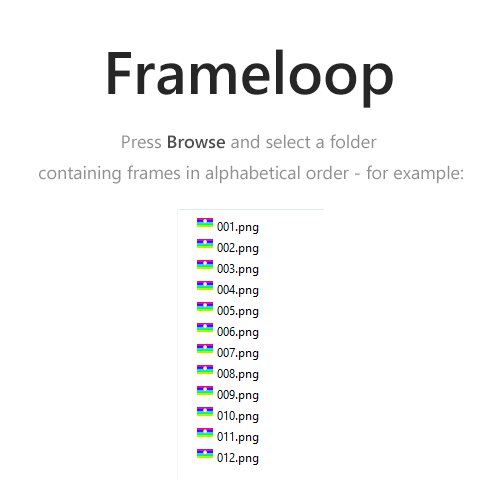
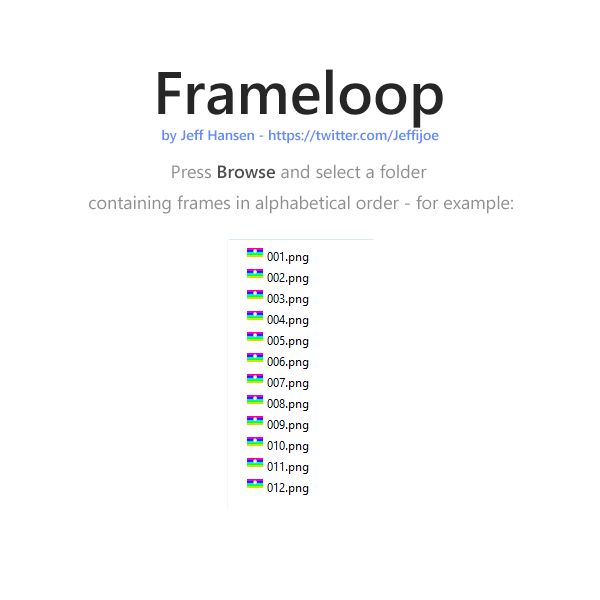
Done!

diff --git a/Frameloop/MainForm.Designer.cs b/Frameloop/MainForm.Designer.cs
@@ -34,22 +34,29 @@
             this.toolStripSeparator1 = new System.Windows.Forms.ToolStripSeparator();
             this.lblFps = new System.Windows.Forms.ToolStripLabel();
             this.txtFps = new System.Windows.Forms.ToolStripTextBox();
-            this.toolStripSeparator2 = new System.Windows.Forms.ToolStripSeparator();
             this.btnTogglePlay = new System.Windows.Forms.ToolStripButton();
-            this.imageViewer = new System.Windows.Forms.PictureBox();
             this.statusStrip = new System.Windows.Forms.StatusStrip();
             this.lblStatus = new System.Windows.Forms.ToolStripStatusLabel();
+            this.imageViewer = new System.Windows.Forms.PictureBox();
             this.pnlBottom = new System.Windows.Forms.Panel();
             this.tbPosition = new System.Windows.Forms.TrackBar();
+            this.statusSpring = new System.Windows.Forms.ToolStripStatusLabel();
+            this.lblAbout = new System.Windows.Forms.ToolStripStatusLabel();
             this.toolStrip1.SuspendLayout();
-            ((System.ComponentModel.ISupportInitialize)(this.imageViewer)).BeginInit();
             this.statusStrip.SuspendLayout();
+            ((System.ComponentModel.ISupportInitialize)(this.imageViewer)).BeginInit();
             this.pnlBottom.SuspendLayout();
             ((System.ComponentModel.ISupportInitialize)(this.tbPosition)).BeginInit();
             this.SuspendLayout();
             // 
             // toolStrip1
             // 
+            this.toolStrip1.Items.AddRange(new System.Windows.Forms.ToolStripItem[] {
+            this.btnBrowse,
+            this.toolStripSeparator1,
+            this.lblFps,
+            this.txtFps,
+            this.btnTogglePlay});
             this.toolStrip1.Location = new System.Drawing.Point(0, 0);
             this.toolStrip1.Name = "toolStrip1";
             this.toolStrip1.Size = new System.Drawing.Size(895, 25);
@@ -81,13 +88,7 @@
             // 
             this.txtFps.Name = "txtFps";
             this.txtFps.Size = new System.Drawing.Size(100, 25);
-            this.txtFps.Text = "24";
             this.txtFps.TextChanged += new System.EventHandler(this.txtFps_TextChanged);
-            // 
-            // toolStripSeparator2
-            // 
-            this.toolStripSeparator2.Name = "toolStripSeparator2";
-            this.toolStripSeparator2.Size = new System.Drawing.Size(6, 25);
             // 
             // btnTogglePlay
             // 
@@ -100,39 +101,43 @@
             this.btnTogglePlay.Text = "Play";
             this.btnTogglePlay.Click += new System.EventHandler(this.btnTogglePlay_Click);
             // 
+            // statusStrip
+            // 
+            this.statusStrip.Items.AddRange(new System.Windows.Forms.ToolStripItem[] {
+            this.lblStatus,
+            this.statusSpring,
+            this.lblAbout});
+            this.statusStrip.Location = new System.Drawing.Point(0, 438);
+            this.statusStrip.Name = "statusStrip";
+            this.statusStrip.Size = new System.Drawing.Size(895, 22);
+            this.statusStrip.TabIndex = 1;
+            this.statusStrip.Text = "statusStrip1";
+            // 
+            // lblStatus
+            // 
+            this.lblStatus.Name = "lblStatus";
+            this.lblStatus.Size = new System.Drawing.Size(57, 17);
+            this.lblStatus.Text = "Waiting...";
+            // 
             // imageViewer
             // 
             this.imageViewer.BackColor = System.Drawing.Color.White;
             this.imageViewer.Dock = System.Windows.Forms.DockStyle.Fill;
             this.imageViewer.Location = new System.Drawing.Point(0, 25);
             this.imageViewer.Name = "imageViewer";
-            this.imageViewer.Size = new System.Drawing.Size(895, 435);
+            this.imageViewer.Size = new System.Drawing.Size(895, 413);
             this.imageViewer.SizeMode = System.Windows.Forms.PictureBoxSizeMode.Zoom;
             this.imageViewer.TabIndex = 2;
             this.imageViewer.TabStop = false;
-            // 
-            // statusStrip
-            // 
-            this.statusStrip.Location = new System.Drawing.Point(0, 438);
-            this.statusStrip.Name = "statusStrip";
-            this.statusStrip.Size = new System.Drawing.Size(895, 22);
-            this.statusStrip.TabIndex = 3;
-            this.statusStrip.Text = "statusStrip1";
-            // 
-            // lblStatus
-            // 
-            this.lblStatus.Name = "lblStatus";
-            this.lblStatus.Size = new System.Drawing.Size(54, 17);
-            this.lblStatus.Text = "Waiting..";
             // 
             // pnlBottom
             // 
             this.pnlBottom.Controls.Add(this.tbPosition);
             this.pnlBottom.Dock = System.Windows.Forms.DockStyle.Bottom;
-            this.pnlBottom.Location = new System.Drawing.Point(0, 393);
+            this.pnlBottom.Location = new System.Drawing.Point(0, 394);
             this.pnlBottom.Name = "pnlBottom";
-            this.pnlBottom.Size = new System.Drawing.Size(895, 45);
-            this.pnlBottom.TabIndex = 4;
+            this.pnlBottom.Size = new System.Drawing.Size(895, 44);
+            this.pnlBottom.TabIndex = 3;
             // 
             // tbPosition
             // 
@@ -140,10 +145,22 @@
             this.tbPosition.Location = new System.Drawing.Point(0, 0);
             this.tbPosition.Minimum = 1;
             this.tbPosition.Name = "tbPosition";
-            this.tbPosition.Size = new System.Drawing.Size(895, 45);
+            this.tbPosition.Size = new System.Drawing.Size(895, 44);
             this.tbPosition.TabIndex = 0;
             this.tbPosition.Value = 1;
             this.tbPosition.ValueChanged += new System.EventHandler(this.tbPosition_ValueChanged);
+            // 
+            // statusSpring
+            // 
+            this.statusSpring.Name = "statusSpring";
+            this.statusSpring.Size = new System.Drawing.Size(482, 17);
+            this.statusSpring.Spring = true;
+            // 
+            // lblAbout
+            // 
+            this.lblAbout.Name = "lblAbout";
+            this.lblAbout.Size = new System.Drawing.Size(341, 17);
+            this.lblAbout.Text = "Created by Jeff Hansen - follow me! https://twitter.com/Jeffijoe";
             // 
             // MainForm
             // 
@@ -151,18 +168,20 @@
             this.AutoScaleMode = System.Windows.Forms.AutoScaleMode.Font;
             this.ClientSize = new System.Drawing.Size(895, 460);
             this.Controls.Add(this.pnlBottom);
-            this.Controls.Add(this.statusStrip);
             this.Controls.Add(this.imageViewer);
+            this.Controls.Add(this.statusStrip);
             this.Controls.Add(this.toolStrip1);
+            this.KeyPreview = true;
             this.Name = "MainForm";
             this.Text = "Frameloop";
             this.FormClosing += new System.Windows.Forms.FormClosingEventHandler(this.MainForm_FormClosing);
             this.Load += new System.EventHandler(this.frmMain_Load);
+            this.KeyUp += new System.Windows.Forms.KeyEventHandler(this.MainForm_KeyUp);
             this.toolStrip1.ResumeLayout(false);
             this.toolStrip1.PerformLayout();
-            ((System.ComponentModel.ISupportInitialize)(this.imageViewer)).EndInit();
             this.statusStrip.ResumeLayout(false);
             this.statusStrip.PerformLayout();
+            ((System.ComponentModel.ISupportInitialize)(this.imageViewer)).EndInit();
             this.pnlBottom.ResumeLayout(false);
             this.pnlBottom.PerformLayout();
             ((System.ComponentModel.ISupportInitialize)(this.tbPosition)).EndInit();
@@ -176,15 +195,15 @@
         private System.Windows.Forms.ToolStrip toolStrip1;
         private System.Windows.Forms.ToolStripButton btnBrowse;
         private System.Windows.Forms.ToolStripSeparator toolStripSeparator1;
-        private System.Windows.Forms.ToolStripButton btnTogglePlay;
-        private System.Windows.Forms.PictureBox imageViewer;
-        private System.Windows.Forms.StatusStrip statusStrip;
-        private System.Windows.Forms.ToolStripStatusLabel lblStatus;
-        private System.Windows.Forms.Panel pnlBottom;
-        private System.Windows.Forms.TrackBar tbPosition;
-        private System.Windows.Forms.ToolStripSeparator toolStripSeparator2;
         private System.Windows.Forms.ToolStripLabel lblFps;
         private System.Windows.Forms.ToolStripTextBox txtFps;
+        private System.Windows.Forms.ToolStripButton btnTogglePlay;
+        private System.Windows.Forms.StatusStrip statusStrip;
+        private System.Windows.Forms.ToolStripStatusLabel lblStatus;
+        private System.Windows.Forms.PictureBox imageViewer;
+        private System.Windows.Forms.Panel pnlBottom;
+        private System.Windows.Forms.TrackBar tbPosition;
+        private System.Windows.Forms.ToolStripStatusLabel statusSpring;
+        private System.Windows.Forms.ToolStripStatusLabel lblAbout;
     }
 }
-

diff --git a/Frameloop/MainViewModel.cs b/Frameloop/MainViewModel.cs
@@ -1,4 +1,5 @@
 using Frameloop.Properties;
+using Frameloop.Utils;
 using System;
 using System.Collections.Generic;
 using System.Diagnostics;
@@ -17,6 +18,7 @@ namespace Frameloop
         private CancellationTokenSource cts;
         private Task task;
         private Bitmap defaultFrame;
+        private Bitmap loadingFrame;
 
         public event Action OnTogglePlay;
         public event Action OnFramesLoaded;
@@ -41,11 +43,14 @@ namespace Frameloop
         public MainViewModel()
         {
             this.Frames = new List<Bitmap>();
-            //this.defaultFrame = Resources.Frameloop;
+            this.defaultFrame = Resources.Frameloop;
+            this.loadingFrame = Resources.Loading;
             this.watcher = new FileSystemWatcher();
-            this.watcher.Created += (sender, evt) => this.LoadFrames();
-            this.watcher.Changed += (sender, evt) => this.LoadFrames();
-            this.watcher.Deleted += (sender, evt) => this.LoadFrames();
+            Action load = () => this.LoadFrames();
+            Action debounced = load.Debounce(500);
+            this.watcher.Created += (sender, evt) => debounced();
+            this.watcher.Changed += (sender, evt) => debounced();
+            this.watcher.Deleted += (sender, evt) => debounced();
             this.cts = new CancellationTokenSource();
             this.task = new Task(() => this.AdvanceFrames(), this.cts.Token, TaskCreationOptions.LongRunning);
             this.task.Start();
@@ -62,6 +67,11 @@ namespace Frameloop
 
         public void TogglePlay()
         {
+            if (string.IsNullOrEmpty(this.Folder))
+            {
+                return;
+            }
+
             this.Playing = !this.Playing;
             this.OnTogglePlay?.Invoke();
         }
@@ -70,12 +80,18 @@ namespace Frameloop
         {
             this.Loading = true;
             this.CurrentFrame = 0;
+            this.OnFrameChange();
             this.Frames.Clear();
             var files = Directory.GetFiles(this.Folder);
-            var frames = files.Select(f => new Bitmap(f));
+            var frames = files.Where(File.Exists).Select(f =>
+            {
+                var bytes = File.ReadAllBytes(f);
+                var ms = new MemoryStream(bytes);
+                return new Bitmap(ms);
+            });
             this.Frames.InsertRange(0, frames);
-            this.Loading = false;
             this.OnFramesLoaded?.Invoke();
+            this.Loading = false;
             this.SetFrame(1);
         }
 
@@ -116,6 +132,11 @@ namespace Frameloop
 
         public Bitmap GetFrame (int frameNumber)
         {
+            if (this.Loading)
+            {
+                return this.loadingFrame;
+            }
+
             if (this.CurrentFrame == 0 || this.FrameCount == 0)
             {
                 return this.defaultFrame;

diff --git a/Frameloop/MainForm.cs b/Frameloop/MainForm.cs
@@ -23,11 +23,12 @@ namespace Frameloop
             this.vm.OnFrameChange += () => Dispatch(this.OnFrameChange);
             this.vm.OnFrameRateChange += () => Dispatch(this.OnFrameRateChange);
             this.vm.OnFramesLoaded += () => Dispatch(this.OnFramesLoaded);
-            
+
             // Sync initial UI state.
             this.OnFrameRateChange();
             this.OnTogglePlay();
             this.OnFolderChange();
+            this.OnFrameChange();
         }
 
         private void OnFramesLoaded()
@@ -49,8 +50,16 @@ namespace Frameloop
         private void OnFrameChange()
         {
             this.imageViewer.Image = this.vm.GetCurrentFrame();
+            if (this.vm.FrameCount == 0)
+            {
+                return;
+            }
+
             this.lblStatus.Text = $"Frame #{this.vm.CurrentFrame} / {this.vm.FrameCount}";
-            this.tbPosition.Value = this.vm.CurrentFrame;
+            if (this.vm.CurrentFrame != 0)
+            {
+                this.tbPosition.Value = this.vm.CurrentFrame;
+            }
         }
 
         private void OnTogglePlay()
@@ -61,7 +70,8 @@ namespace Frameloop
 
         private void OnFolderChange()
         {
-            this.Text = $"Frameloop ({this.vm.Folder})";
+            this.Text = string.IsNullOrEmpty(this.vm.Folder) ? "Frameloop" : $"Frameloop ({this.vm.Folder})";
+            this.btnTogglePlay.Enabled = !string.IsNullOrEmpty(this.vm.Folder);
         }
 
         private void frmMain_Load(object sender, EventArgs e)
@@ -69,7 +79,7 @@ namespace Frameloop
 
         }
 
-        private void Dispatch (Action action)
+        private void Dispatch(Action action)
         {
             this.Invoke(action);
         }
@@ -119,6 +129,14 @@ namespace Frameloop
             }
 
             this.vm.SetFrame(this.tbPosition.Value);
+        }
+
+        private void MainForm_KeyUp(object sender, KeyEventArgs e)
+        {
+            if (e.KeyCode == Keys.Space)
+            {
+                this.vm.TogglePlay();
+            }
         }
     }
 }

diff --git a/Frameloop/Properties/Resources.Designer.cs b/Frameloop/Properties/Resources.Designer.cs
@@ -59,5 +59,25 @@ namespace Frameloop.Properties {
                 resourceCulture = value;
             }
         }
+        
+        /// <summary>
+        ///   Looks up a localized resource of type System.Drawing.Bitmap.
+        /// </summary>
+        public static System.Drawing.Bitmap Frameloop {
+            get {
+                object obj = ResourceManager.GetObject("Frameloop", resourceCulture);
+                return ((System.Drawing.Bitmap)(obj));
+            }
+        }
+        
+        /// <summary>
+        ///   Looks up a localized resource of type System.Drawing.Bitmap.
+        /// </summary>
+        public static System.Drawing.Bitmap Loading {
+            get {
+                object obj = ResourceManager.GetObject("Loading", resourceCulture);
+                return ((System.Drawing.Bitmap)(obj));
+            }
+        }
     }
 }

diff --git a/Frameloop/Utils/ActionUtil.cs b/Frameloop/Utils/ActionUtil.cs
@@ -1,0 +1,26 @@
+using System;
+using System.Collections.Generic;
+using System.Linq;
+using System.Text;
+using System.Threading;
+using System.Threading.Tasks;
+
+namespace Frameloop.Utils
+{
+    public static class ActionUtil
+    {
+        public static Action Debounce(this Action func, int milliseconds = 300)
+        {
+            var last = 0;
+            return () =>
+            {
+                var current = Interlocked.Increment(ref last);
+                Task.Delay(milliseconds).ContinueWith(task =>
+                {
+                    if (current == last) func();
+                    task.Dispose();
+                });
+            };
+        }
+    }
+}
